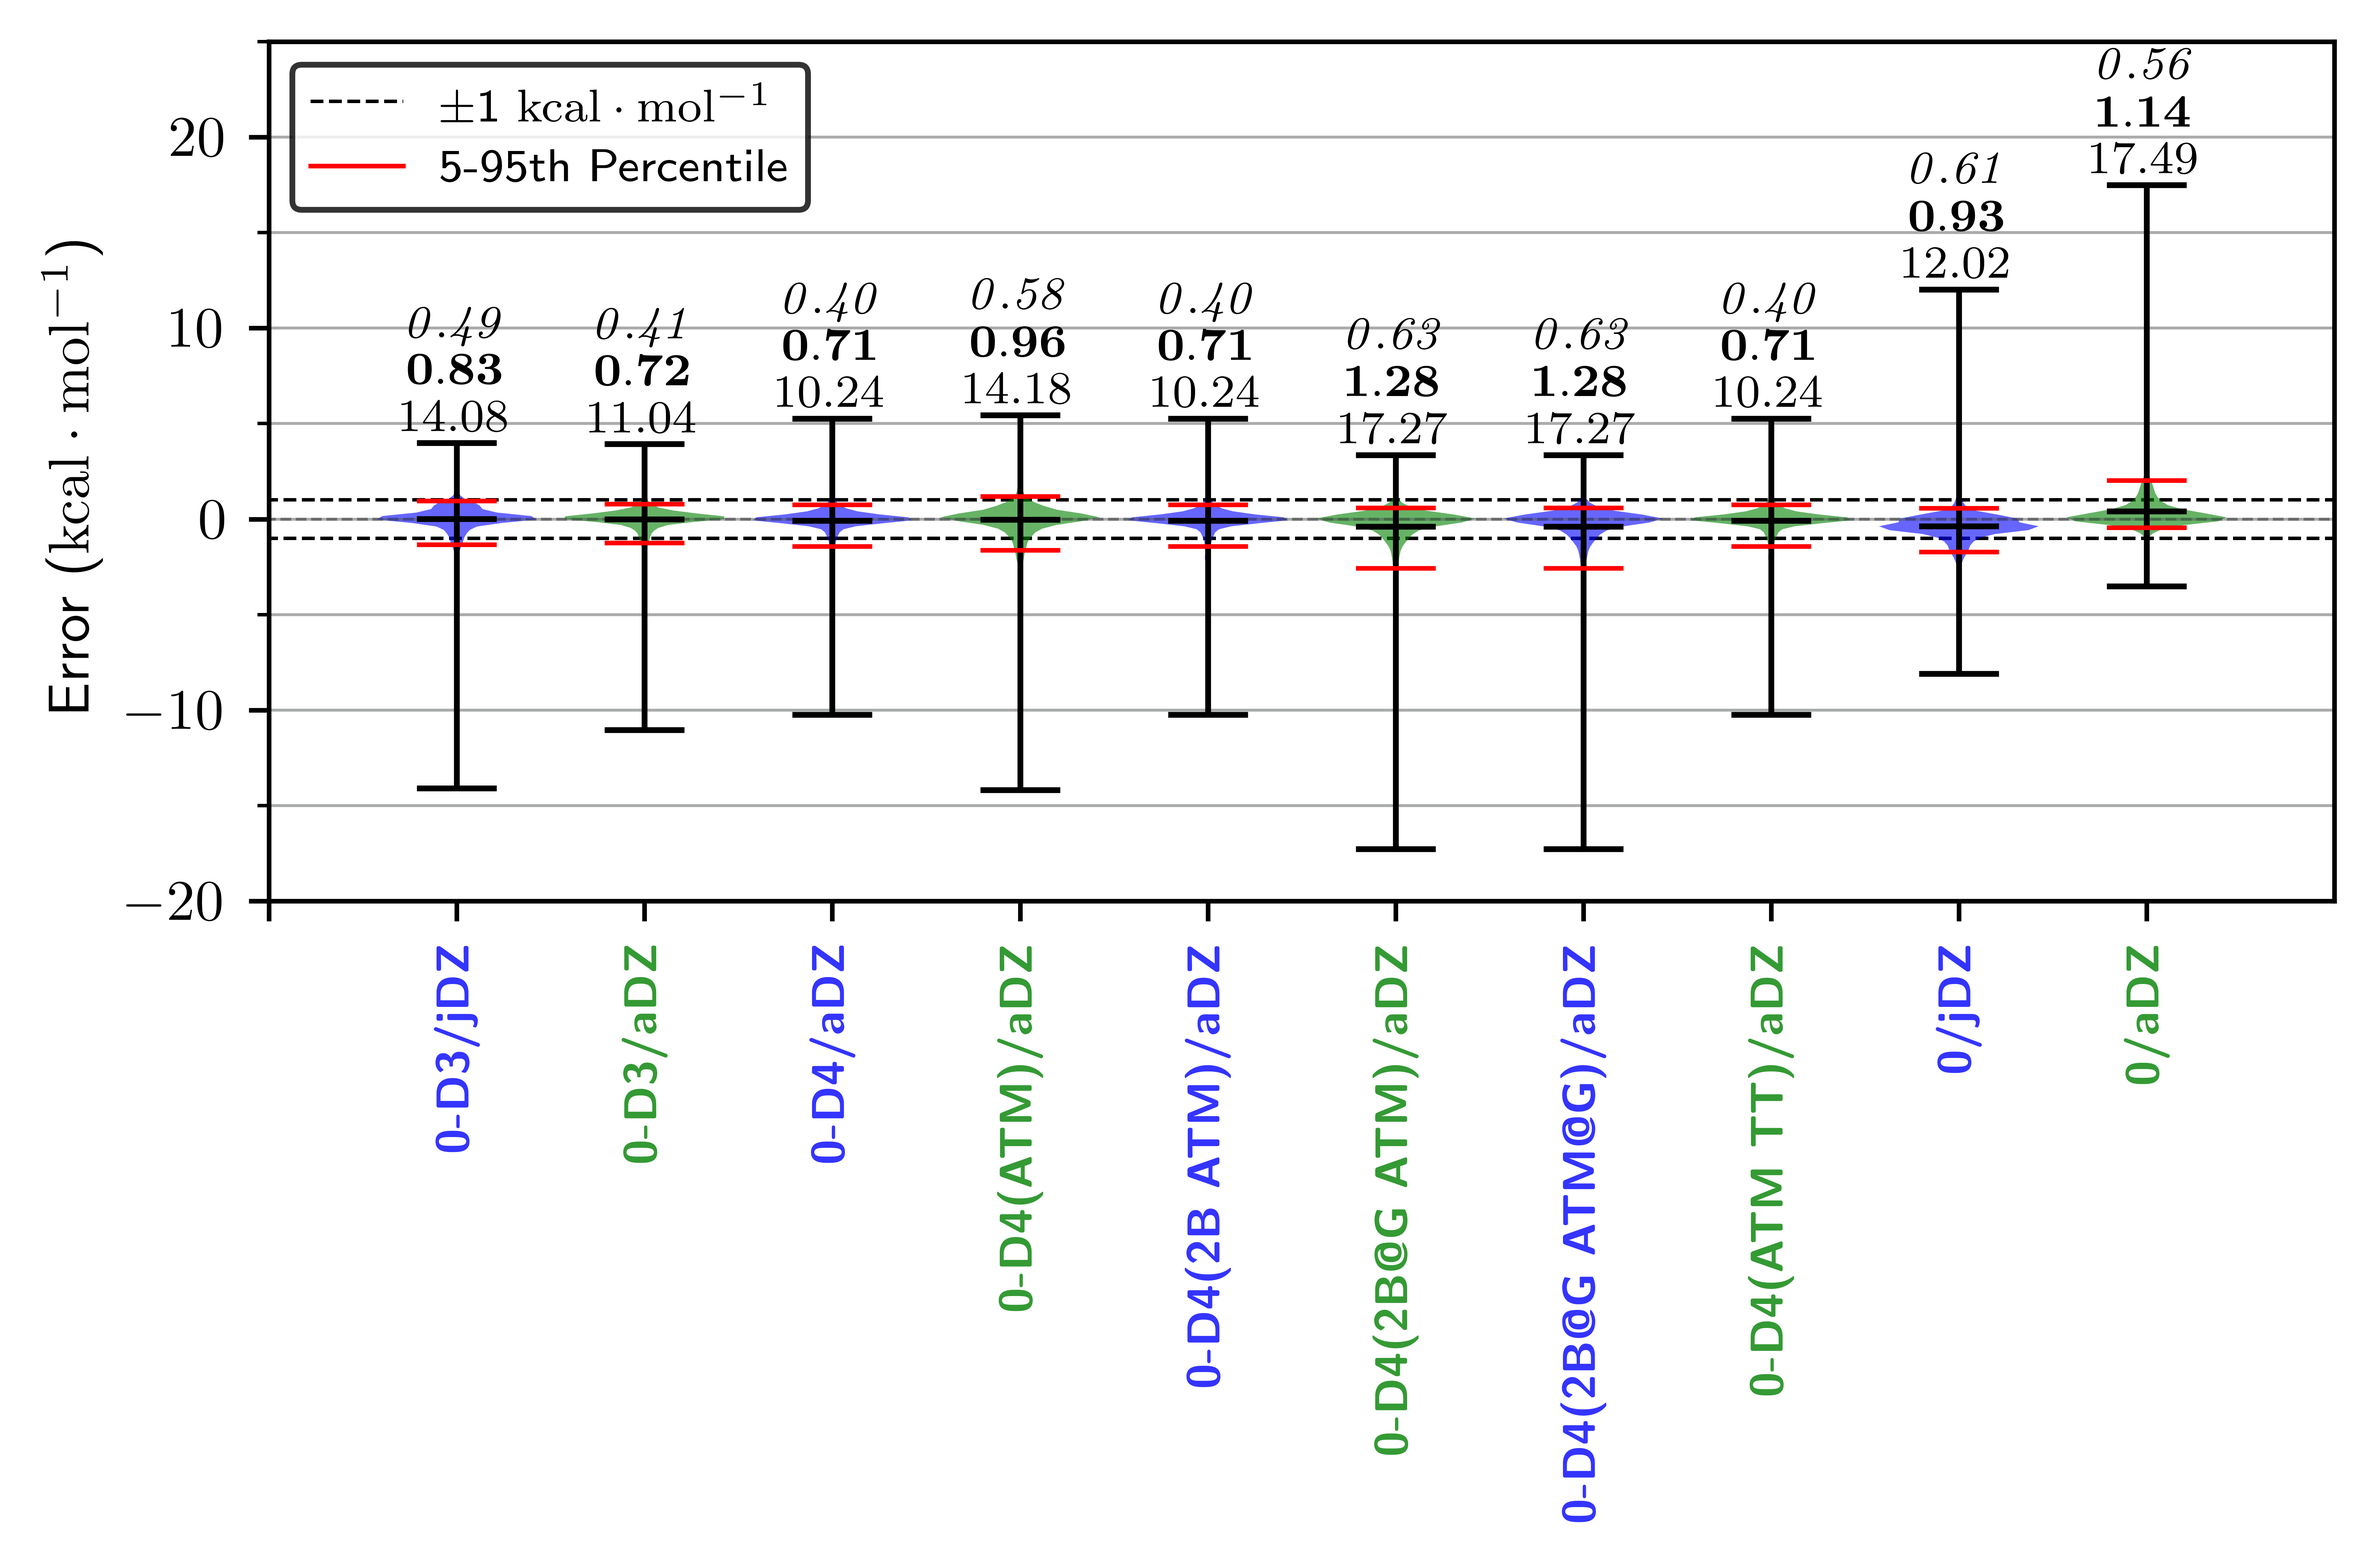
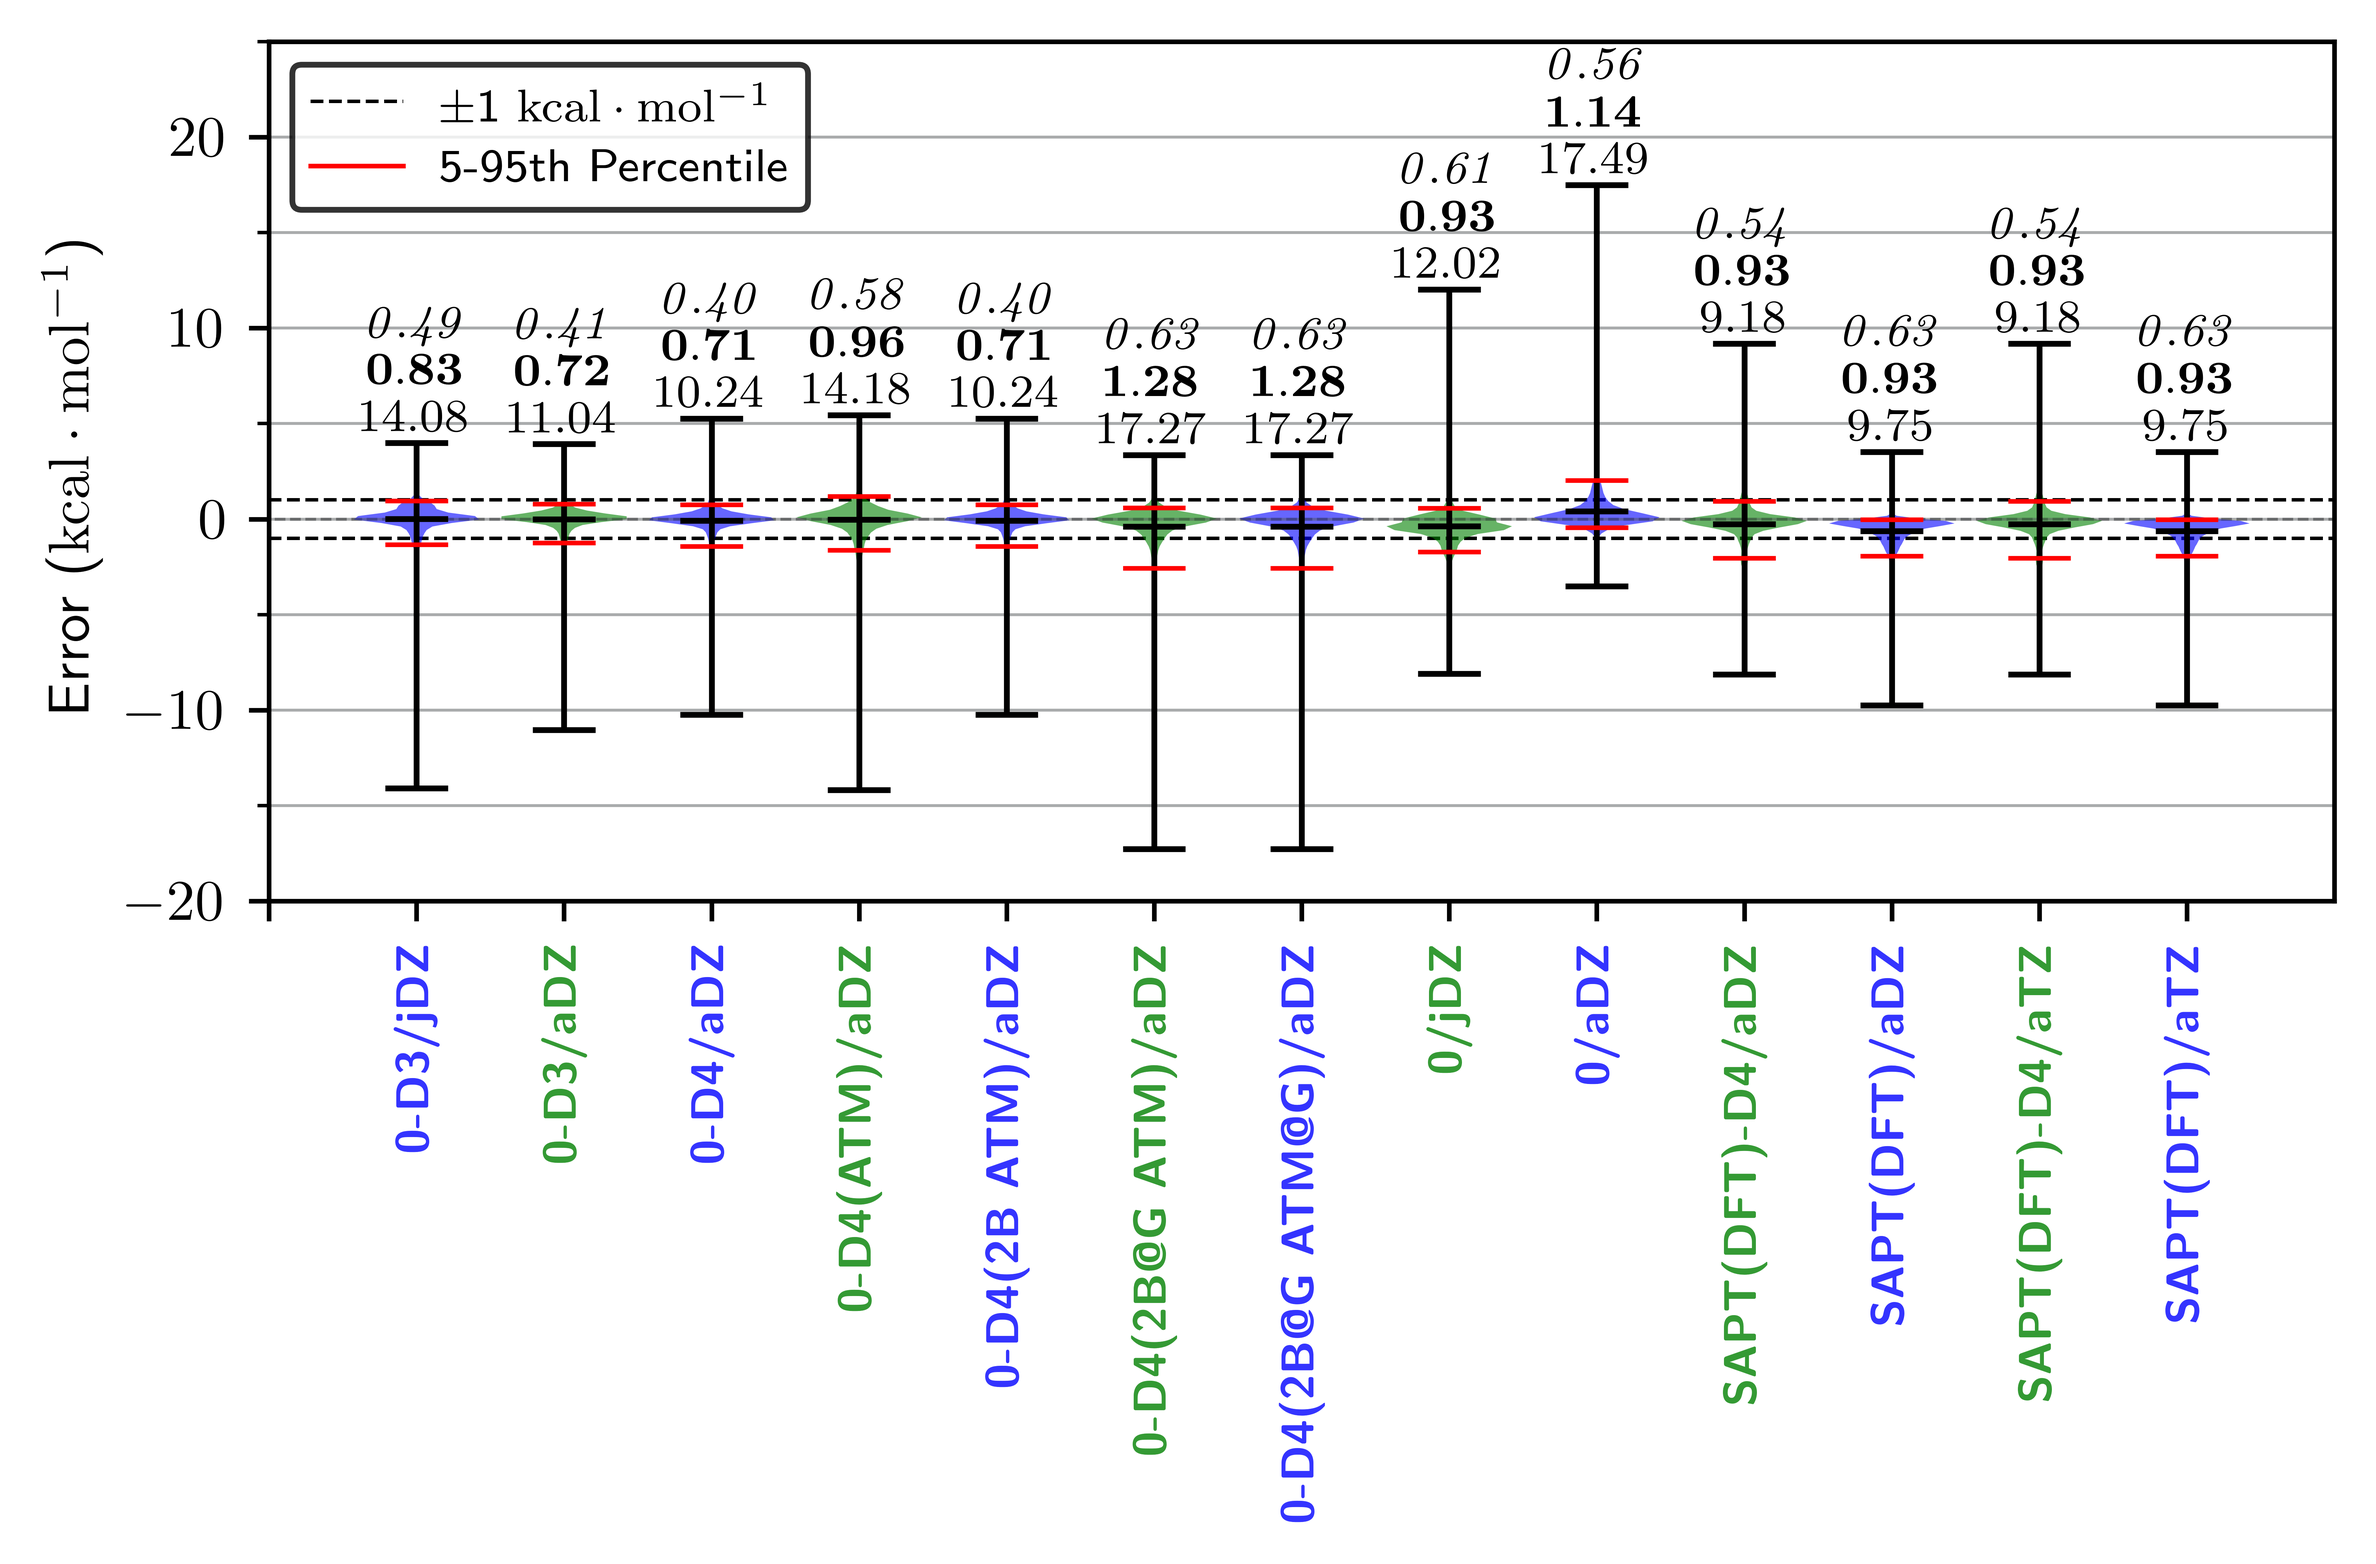
saptdft params

diff --git a/src/sr.py b/src/sr.py
@@ -6,7 +6,7 @@ from . import locald4
 from qm_tools_aw import tools
 from sklearn.model_selection import train_test_split
 
-disp_func = dispersion.disp.disp_SR_7_vals
+disp_func = dispersion.disp.disp_SR_8_vals
 
 def build_vals(pos, carts, C6, params_ATM, cols=7, max_N=None):
     if max_N is None:
@@ -67,11 +67,10 @@ def generate_SR_data_ATM(
             result_type="expand",
         )
         df["d4_ATM_E"] = df.apply(lambda r: sum(r["xs_all"][:, 0]), axis=1)
-        df["d4_ATM_Es"] = df.apply(lambda r: r["xs_all"][:, 0], axis=1)
+        df["constants"] = df.apply(lambda r: np.array([r["xs_all"][:, 0]]), axis=1)
         df["xs"] = df.apply(lambda r: r["xs_all"][:, 1:], axis=1)
         print(df["xs"].iloc[0])
         print(params)
-        # df["xs"] = df.apply(lambda r: r["xs"][:, 1:], axis=1)
         splits = []
         end = 0
         for i in range(len(df)):
@@ -101,7 +100,7 @@ def generate_SR_data_ATM(
         axis=1,
     )
     df["ys"] = df.apply(
-        lambda r: (r["Benchmark"] - (r[target_HF_key] + r["d4_2B"])) / r["d4_ATM_E"],
+        lambda r: (r["Benchmark"] - (r[target_HF_key] + r["d4_2B"])),
         axis=1,
     )
     df["ys_target"] = df.apply(
@@ -122,15 +121,14 @@ def generate_SR_data_ATM(
     diff_rmse = np.sqrt((df["diff"] ** 2).mean())
     print(f"Diff   MAE: {diff_mae:.4f} MSE: {diff_mse:.4f} RMSE: {diff_rmse:.4f}")
 
-    # df['ys'] /= locald4.hartree_to_kcalmol
     print(df[["ys", "d4_ATM_E", "y_pred", "diff"]].describe())
     if True:
         # out = selected.replace(".pkl", "_SR.pkl")
-        out = "/theoryfs2/ds/amwalla3/projects/symbolic_regression/d4_ATM/data/schr_dft2_SR_2.pkl"
+        out = f"/theoryfs2/ds/amwalla3/projects/symbolic_regression/d4_ATM/data/schr_dft2_SR_{target_HF_key}.pkl"
         print(f"Saving to...\n{out}")
         df.to_pickle(out)
 
-    df.sort_values("diff", inplace=True, ascending=False)
+    df.sort_values("ys_target", inplace=True, ascending=False)
     cnt = 0
     for n, r in df.iterrows():
         line = f"{n}    START: {r['ys_target']:.4f} = {r['Benchmark']:.4f} - ({r[target_HF_key]:.4f} + {r['d4_2B']:.4f}) ::: fmp * {r['d4_ATM_E']:.4f}"
@@ -180,6 +178,11 @@ def error_statistics_SR(
         ),
         axis=1,
     )
+    df['SR_ATM_E'] = df.apply(lambda r: sum(r['SR_ATM']), axis=1)
+    df['diff'] = df.apply(
+        lambda r: (r["Benchmark"] - r[target_HF_key]),
+        axis=1,
+    )
     df["y_pred"] = df.apply(
         lambda r: (r["Benchmark"] - (r[target_HF_key] + r["d4_2B"] + sum(r["SR_ATM"]))),
         axis=1,
@@ -188,8 +191,15 @@ def error_statistics_SR(
         lambda r: (r["Benchmark"] - (r[target_HF_key] + r["d4_2B"])),
         axis=1,
     )
-    print(df[['Benchmark', 'y_2b', 'y_pred']].describe())
-    print(df[['Benchmark', target_HF_key, 'd4_2B', 'y_2b', 'y_pred']].head(10))
+    print(df[['Benchmark', target_HF_key, "diff", 'd4_2B', "SR_ATM_E"]].describe())
+    print(df[['y_2b', "y_pred", ]].describe())
+
+    df.sort_values("SR_ATM_E", inplace=True, ascending=True)
+    print(df[['Benchmark', target_HF_key, 'diff', 'y_2b', 'y_pred', "SR_ATM_E"]].head(10))
+
+    df.sort_values("SR_ATM_E", inplace=True, ascending=False)
+    print(df[['Benchmark', target_HF_key, 'diff', 'y_2b', 'y_pred', "SR_ATM_E"]].head(10))
+
     mae_2b, mse_2b, rmse_2b = compute_mae_mse_rmse(df, "y_2b")
     print("2B (No ATM)")
     print(f"full df MAE: {mae_2b:.6f} RMSE: {rmse_2b:.6f} MSE: {mse_2b:.6f}")

diff --git a/src/plotting.py b/src/plotting.py
@@ -772,13 +772,13 @@ def plotting_setup(df, build_df=False, df_out: str = "plots/plot.pkl", compute_d
             "0-D4(2B ATM)/aDZ": "adz_diff_d4_ATM",
             "0-D4(2B@G ATM)/aDZ": "adz_diff_d4_2B@ATM_G",
             "0-D4(2B@G ATM@G)/aDZ": "adz_diff_d4_ATM_G",
-            "0-D4(ATM TT)/aDZ": "SAPT0_adz_3_IE_TT_OPT_d4_diff",
+            # "0-D4(ATM TT)/aDZ": "SAPT0_adz_3_IE_TT_OPT_d4_diff",
             "0/jDZ": "SAPT0_jdz_3_IE_diff",
             "0/aDZ": "SAPT0_adz_3_IE_diff",
-            # "SAPT(DFT)-D4/aDZ": "SAPT_DFT_adz_3_IE_d4_diff",
-            # "SAPT(DFT)/aDZ": "SAPT_DFT_adz_3_IE_diff",
-            # "SAPT(DFT)-D4/aTZ": "SAPT_DFT_adz_3_IE_d4_diff",
-            # "SAPT(DFT)/aTZ": "SAPT_DFT_adz_3_IE_diff",
+            "SAPT(DFT)-D4/aDZ": "SAPT_DFT_adz_3_IE_d4_diff",
+            "SAPT(DFT)/aDZ": "SAPT_DFT_adz_3_IE_diff",
+            "SAPT(DFT)-D4/aTZ": "SAPT_DFT_adz_3_IE_d4_diff",
+            "SAPT(DFT)/aTZ": "SAPT_DFT_adz_3_IE_diff",
         },
         f"",
         f"{selected}_ATM",

diff --git a/main.py b/main.py
@@ -551,9 +551,12 @@ def main():
             src.sr.generate_SR_data_ATM(
                 *df_names(6),
                 # params_key="HF_ATM_SHARED",
+                # target_HF_key="SAPT_DFT_adz_3_IE",
                 params_key="SAPT0_adz_3_IE_ATM",
+                # params_key="SAPT_DFT_atz_3_IE_END4",
                 ncols=7,
                 generate=True,
+
             )
         if True:
             src.sr.error_statistics_SR(
@@ -574,7 +577,7 @@ def main():
         # )
         return
 
-    SR_testing()
+    # SR_testing()
     # return
     # return
     # src.misc.sensitivity_analysis(df)
@@ -591,7 +594,7 @@ def main():
             df,
             False,
         )
-    if False:
+    if True:
         src.plotting.plotting_setup(
             df_names(9),
             False,

diff --git a/src/paramsTable.py b/src/paramsTable.py
@@ -82,6 +82,16 @@ def paramsDict() -> {}:
             [1.0, 1.61375333, 1.29750048, -1.36233762, 1.29750048, -1.36233762, 1.0],
             dtype=np.float64,
         ),
+        "SAPT_DFT_atz_END5": [
+            [1.33450109, 0.85893797, 1.05574177, -0.55058209, 0.36828734],
+            [1.33450109, 0.85893797, 1.01681635, -1.69512544, 0.36828734],
+        ],
+        "SAPT_DFT_atz_3_IE_END4": np.array(
+            [
+                [1.0, 1.19131302, 1.27135607, -1.41172872, 0.0],
+                [1.0, 1.19131302, 1.27135607, -1.41172872, 1.0],
+            ]
+        ),
         "HF_ATM_OPT_START": np.array(
             [
                 1.61679827,
